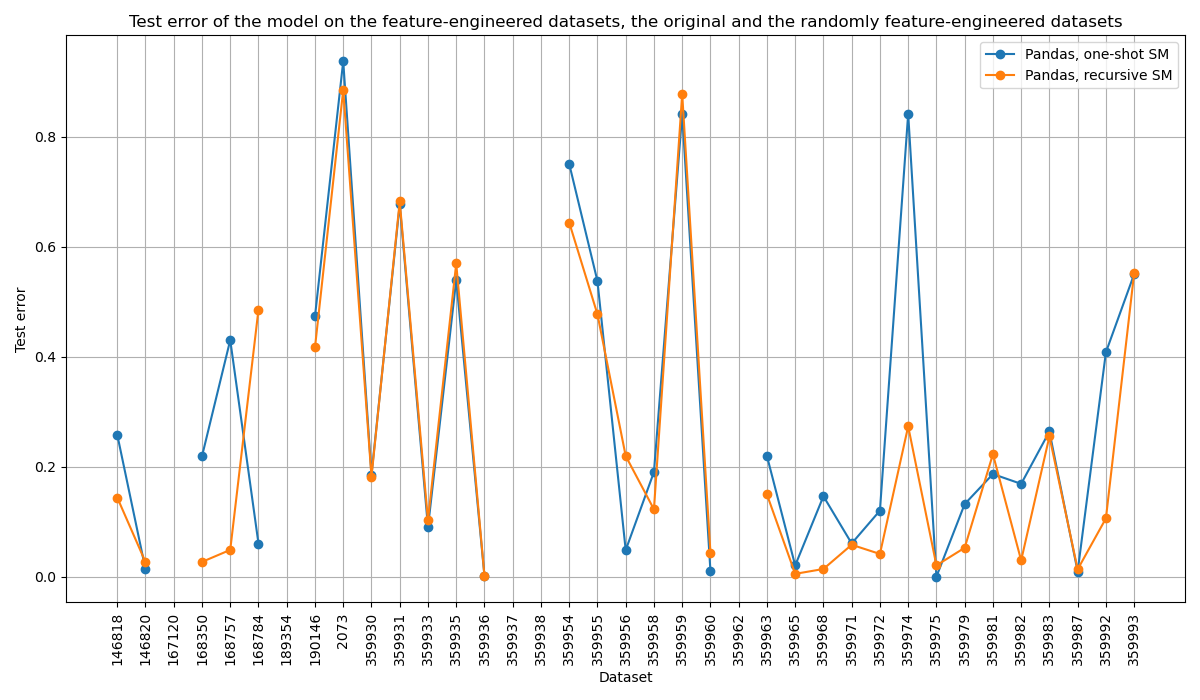
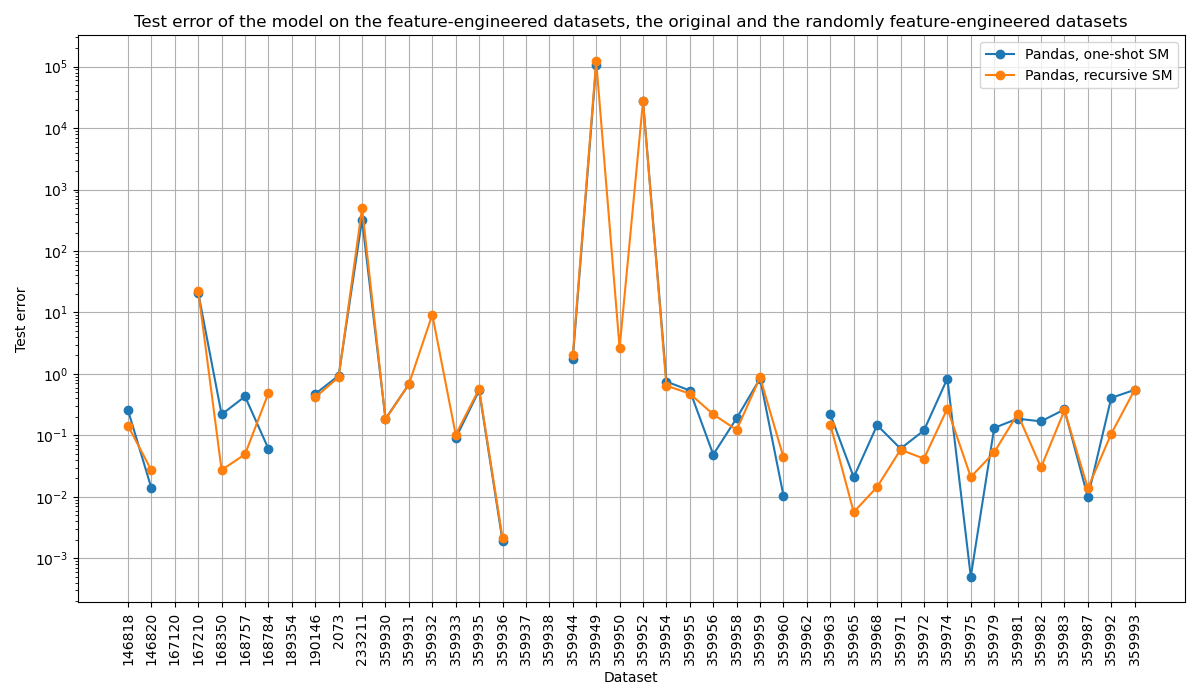
Use logscale for graph

diff --git a/src/Result_Analysis/test_analysis/test_analysis.py b/src/Result_Analysis/test_analysis/test_analysis.py
@@ -99,7 +99,7 @@ def plot_score_graph(dataset_list_wrapped, df_pivot, name):
         large_plot = True
         column_to_move = df_pivot.pop("OpenFE")
         df_pivot.insert(len(df_pivot.columns), "OpenFE", column_to_move)
-    df_filtered = df_pivot[(df_pivot.le(1) | df_pivot.isna()).all(axis=1)]
+    df_filtered = df_pivot # [(df_pivot.le(1) | df_pivot.isna()).all(axis=1)]
     dataset_list_wrapped = df_filtered.index.tolist()
     if large_plot:
         plt.figure(figsize=(12, 10))
@@ -112,6 +112,7 @@ def plot_score_graph(dataset_list_wrapped, df_pivot, name):
     plt.ylabel(score_type.title() + " error")
     plt.title(score_type.title() + " error of the model on the feature-engineered datasets, the original and the randomly feature-engineered datasets")
     plt.legend()
+    plt.yscale("log")
     plt.grid(True)
     plt.tight_layout()
     plt.savefig("../Result_Analysis/test_analysis/Graph_" + name + ".png")
